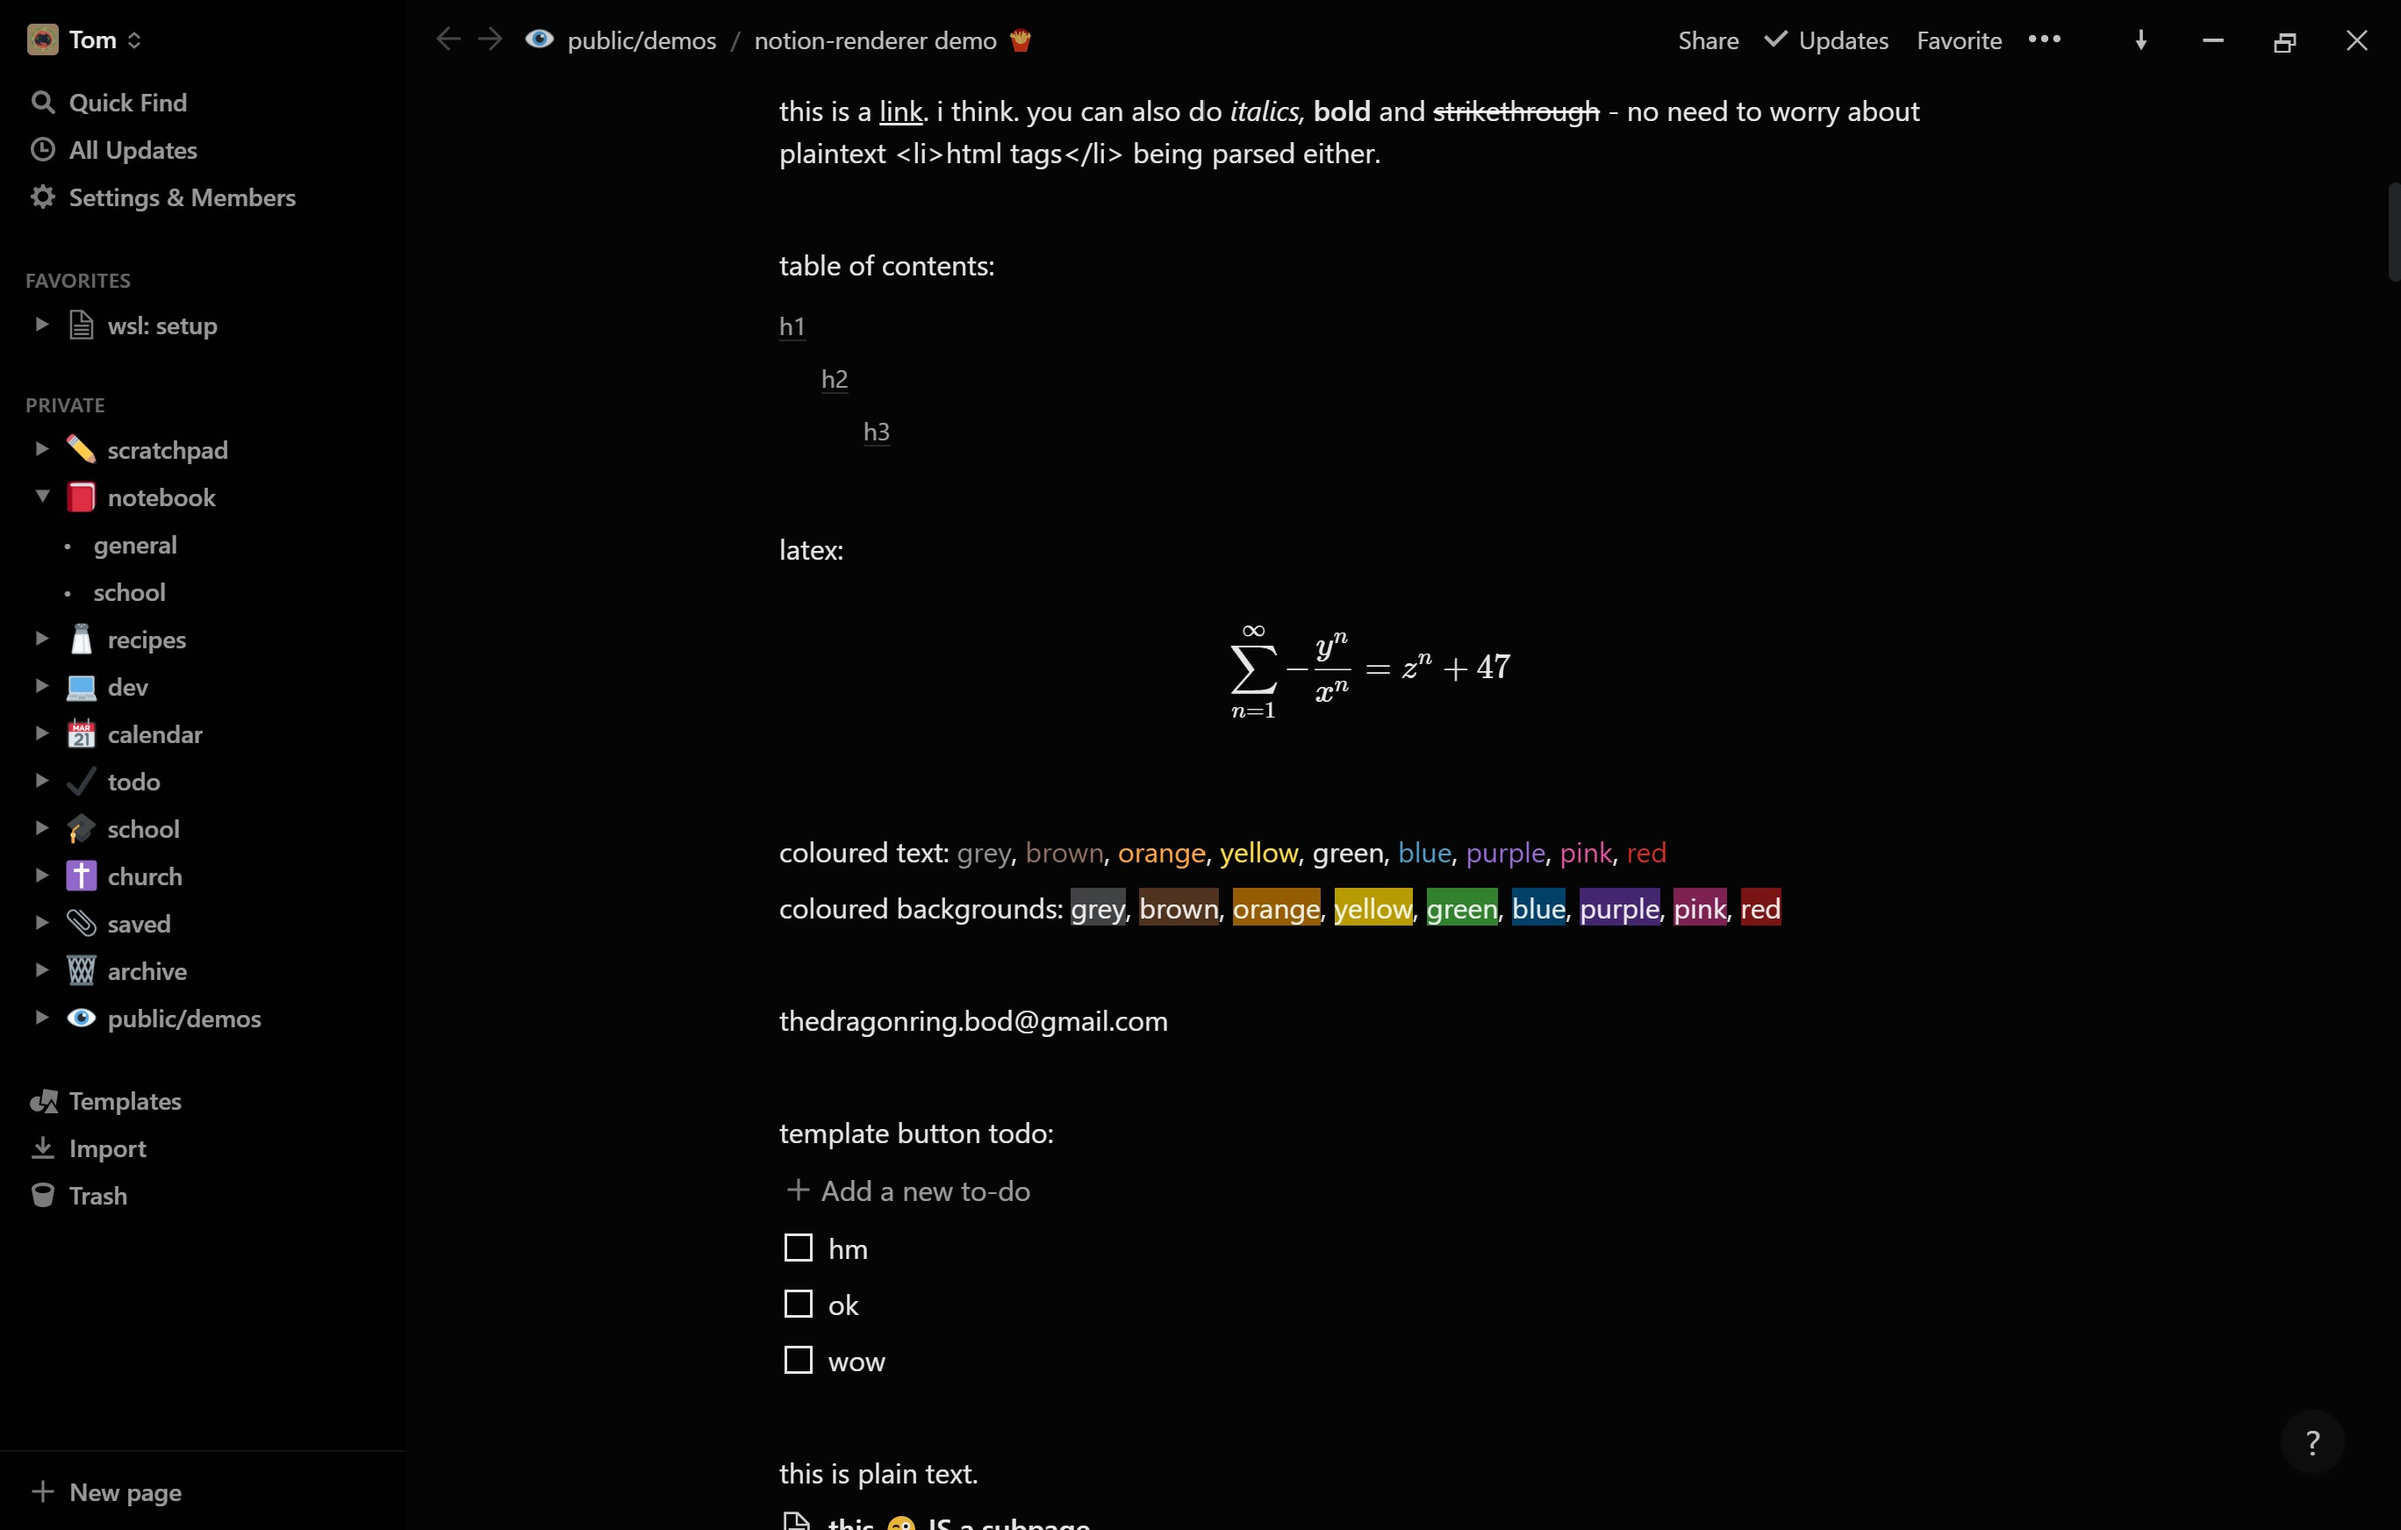
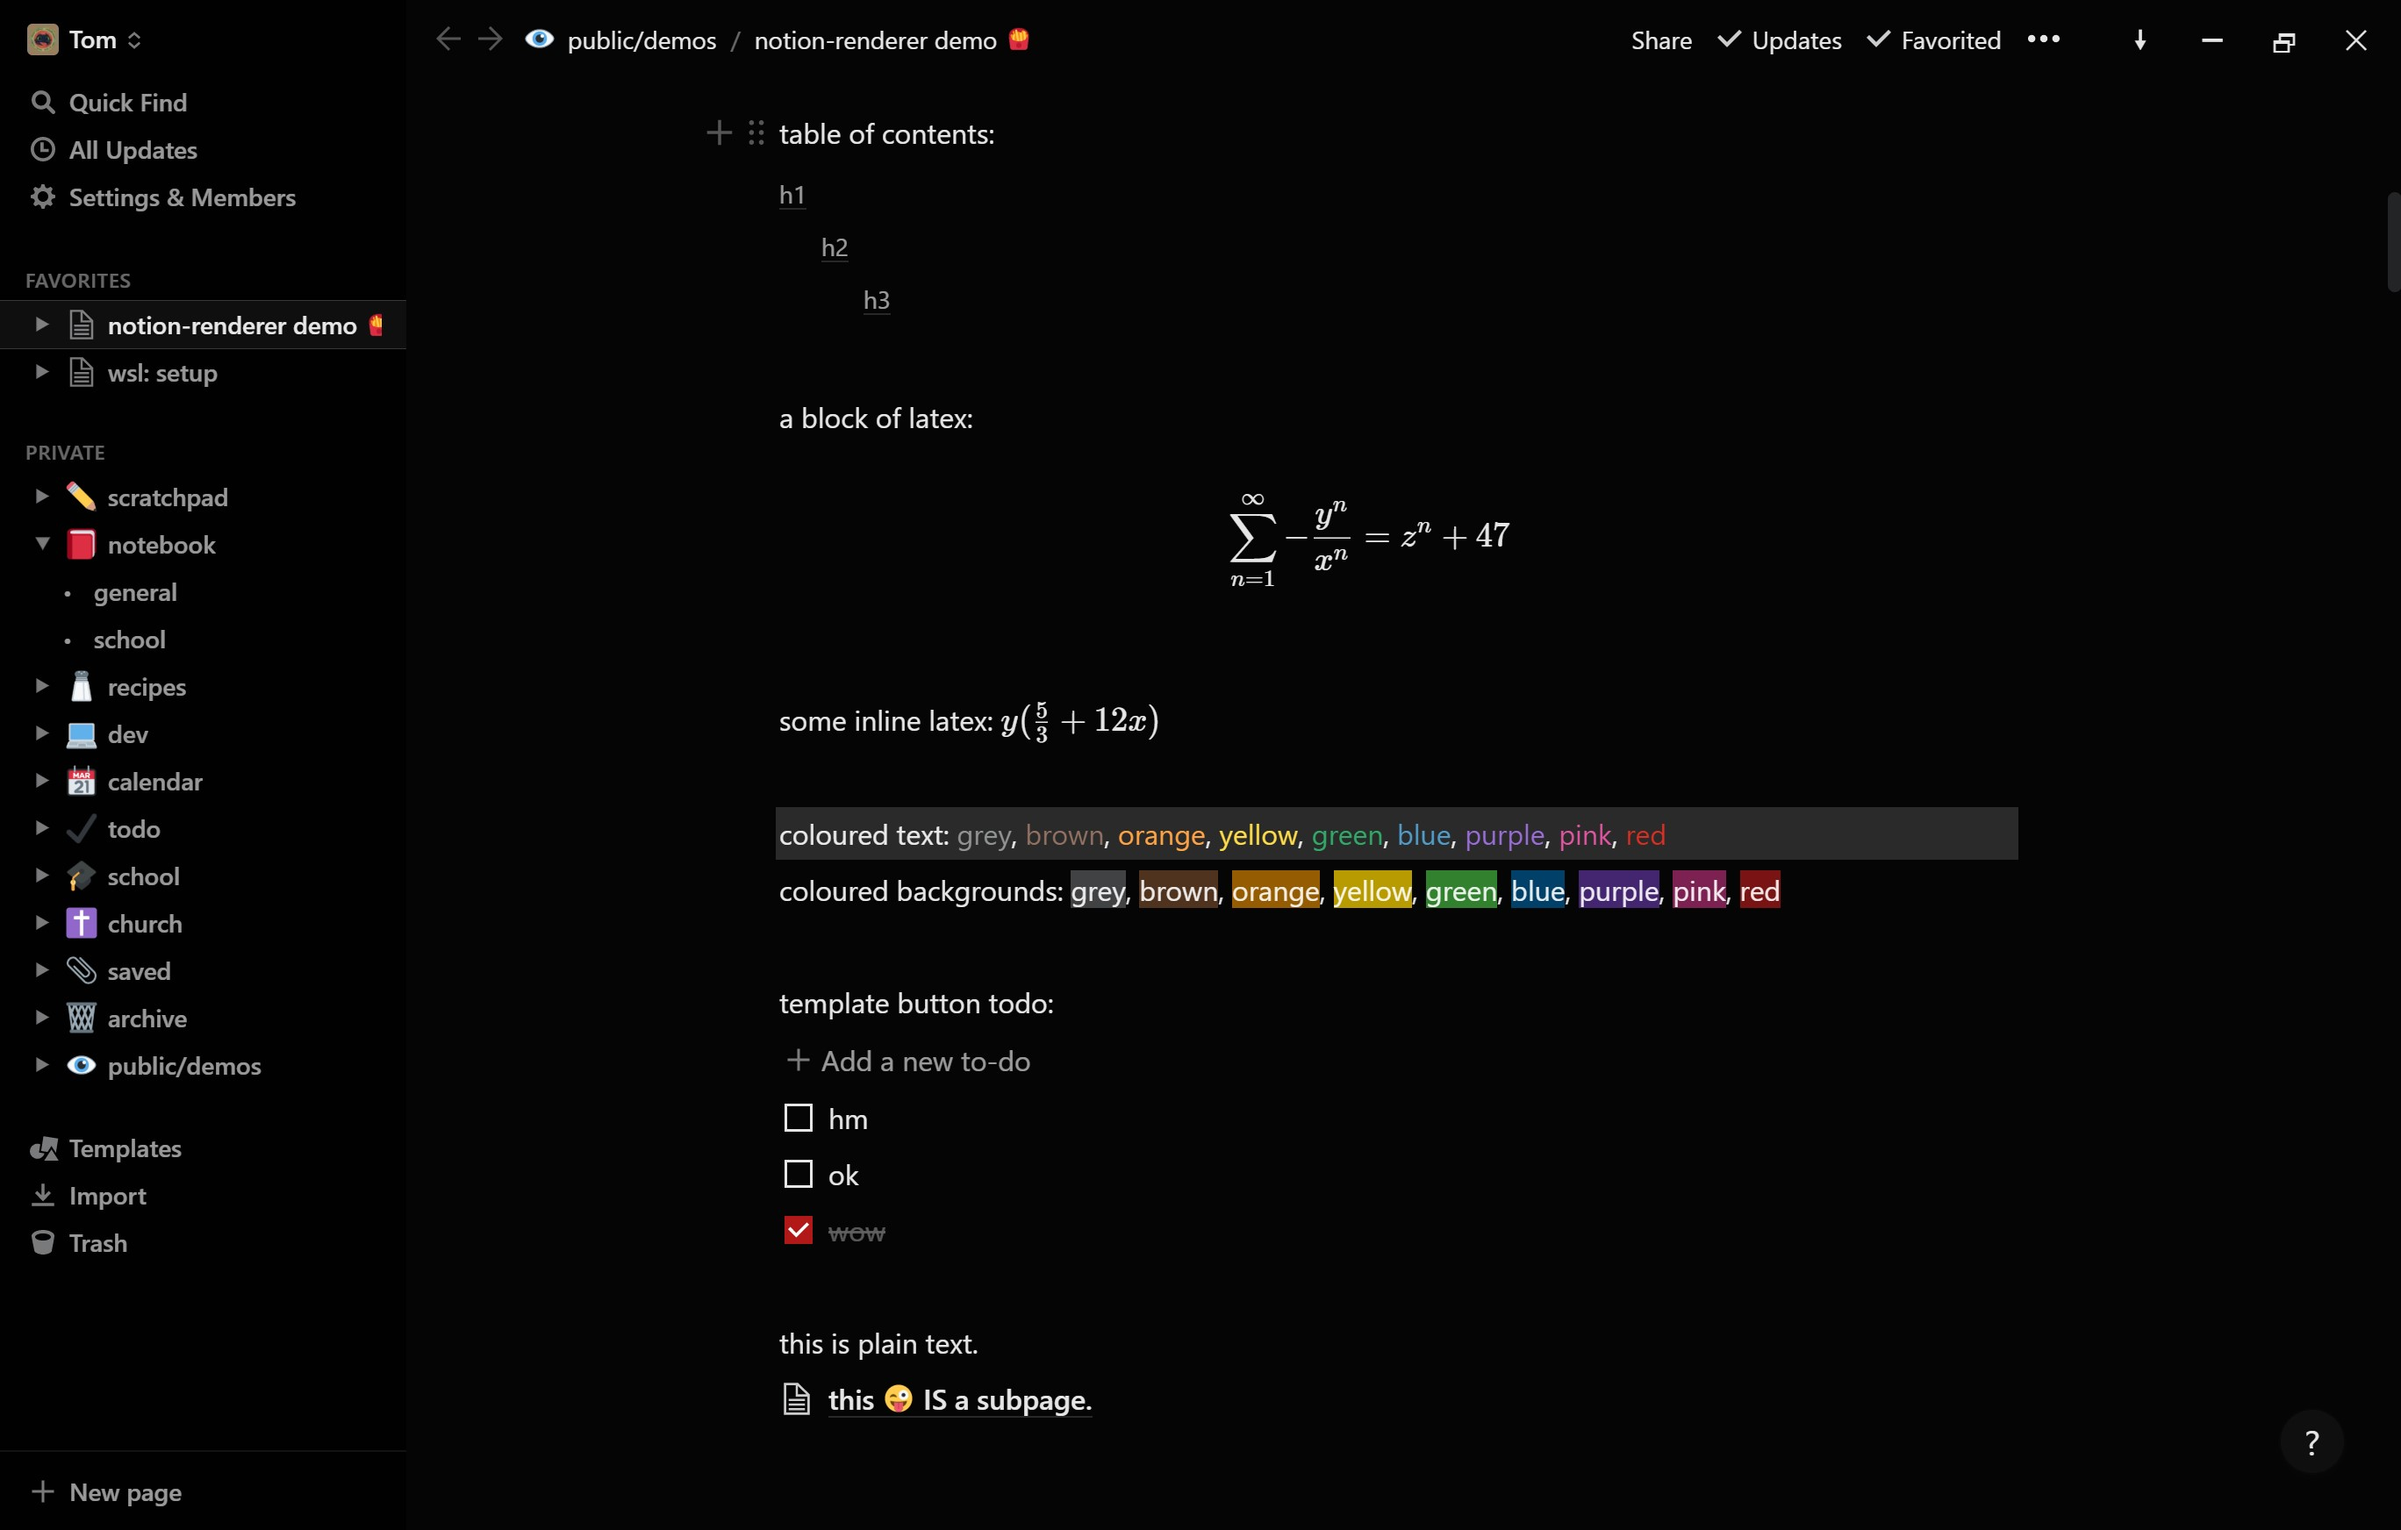
colour theming: line backgrounds

diff --git a/resources/theme.css b/resources/theme.css
@@ -29,7 +29,7 @@
   --theme-text_brown: rgb(147, 114, 100);
   --theme-text_orange: rgb(255, 163, 68);
   --theme-text_yellow: rgb(255, 220, 73);
-  --theme-text_teal: rgb(77, 171, 154);
+  --theme-text_green: rgb(50, 169, 104);
   --theme-text_blue: rgb(82, 156, 202);
   --theme-text_purple: rgb(154, 109, 215);
   --theme-text_pink: rgb(226, 85, 161);
@@ -43,6 +43,15 @@
   --theme-bg_purple: rgba(91, 49, 148, 0.74);
   --theme-bg_pink: rgba(243, 61, 159, 0.5);
   --theme-bg_red: rgb(122, 20, 20);
+  --theme-line_gray: rgba(126, 128, 129, 0.301);
+  --theme-line_brown: #50331fad;
+  --theme-line_orange: rgba(255, 153, 0, 0.315);
+  --theme-line_yellow: rgba(183, 156, 0, 0.445);
+  --theme-line_green: rgba(50, 129, 47, 0.39);
+  --theme-line_blue: rgba(0, 90, 146, 0.521);
+  --theme-line_purple: rgba(90, 49, 148, 0.349);
+  --theme-line_pink: rgba(243, 61, 158, 0.301);
+  --theme-line_red: rgba(122, 20, 20, 0.623);
 }
 
 /** backgrounds **/
@@ -104,66 +113,93 @@
   background: var(--theme-primary_indicator) !important;
 }
 
+[style*='color:rgba(151,154,155,0.95)'] {
+  color: var(--theme-text_gray) !important;
+}
 [style*='background: rgba(151, 154, 155, 0.5)'],
 [style*='background:rgb(69,75,78)'] {
   background: var(--theme-bg_gray) !important;
 }
-[style*='color:rgba(151,154,155,0.95)'] {
-  color: var(--theme-text_gray) !important;
+[style*='background: rgb(69, 75, 78)'] {
+  background: var(--theme-line_gray) !important;
+}
+[style*='color:rgb(147,114,100)'] {
+  color: var(--theme-text_brown) !important;
 }
 [style*='background: rgba(147, 114, 100, 0.5)'],
 [style*='background:rgb(67,64,64)'] {
   background: var(--theme-bg_brown) !important;
 }
-[style*='color:rgb(147,114,100)'] {
-  color: var(--theme-text_brown) !important;
+[style*='background: rgb(67, 64, 64)'] {
+  background: var(--theme-line_brown) !important;
+}
+[style*='color:rgb(255,163,68)'] {
+  color: var(--theme-text_orange) !important;
 }
 [style*='background: rgba(255, 163, 68, 0.5)'],
 [style*='background:rgb(89,74,58)'] {
   background: var(--theme-bg_orange) !important;
 }
-[style*='color:rgb(255,163,68)'] {
-  color: var(--theme-text_orange) !important;
+[style*='background: rgb(89, 74, 58)'] {
+  background: var(--theme-line_orange) !important;
+}
+[style*='color:rgb(255,220,73)'] {
+  color: var(--theme-text_yellow) !important;
 }
 [style*='background: rgba(255, 220, 73, 0.5)'],
 [style*='background:rgb(89,86,59)'] {
   background: var(--theme-bg_yellow) !important;
 }
-[style*='color:rgb(255,220,73)'] {
-  color: var(--theme-text_yellow) !important;
+[style*='background: rgb(89, 86, 59)'] {
+  background: var(--theme-line_yellow) !important;
+}
+[style*='color:rgb(77,171,154)'] {
+  color: var(--theme-text_green) !important;
 }
 [style*='background: rgba(77, 171, 154, 0.5)'],
 [style*='background:rgb(53,76,75)'] {
   background: var(--theme-bg_green) !important;
 }
-[style*='color:rgb(77,171,154)'] {
-  color: var(--theme-text_green) !important;
+[style*='background: rgb(53, 76, 75)'] {
+  background: var(--theme-line_green) !important;
+}
+[style*='color:rgb(82,156,202)'] {
+  color: var(--theme-text_blue) !important;
 }
 [style*='background: rgba(82, 156, 202, 0.5)'],
 [style*='background:rgb(54,73,84)'] {
   background: var(--theme-bg_blue) !important;
 }
-[style*='color:rgb(82,156,202)'] {
-  color: var(--theme-text_blue) !important;
+[style*='background: rgb(54, 73, 84)'] {
+  background: var(--theme-line_blue) !important;
+}
+[style*='color:rgb(154,109,215)'] {
+  color: var(--theme-text_purple) !important;
 }
 [style*='background: rgba(154, 109, 215, 0.5)'],
 [style*='background:rgb(68,63,87)'] {
   background: var(--theme-bg_purple) !important;
 }
-[style*='color:rgb(154,109,215)'] {
-  color: var(--theme-text_purple) !important;
+[style*='background: rgb(68, 63, 87)'] {
+  background: var(--theme-line_purple) !important;
+}
+[style*='color:rgb(226,85,161)'] {
+  color: var(--theme-text_pink) !important;
 }
 [style*='background: rgba(226, 85, 161, 0.5)'],
 [style*='background:rgb(83,59,76)'] {
   background: var(--theme-bg_pink) !important;
 }
-[style*='color:rgb(226,85,161)'] {
-  color: var(--theme-text_pink) !important;
+[style*='background: rgb(83, 59, 76)'] {
+  background: var(--theme-line_pink) !important;
+}
+[style*='color:rgb(255,115,105)'] {
+  color: var(--theme-text_red) !important;
 }
 [style*='background: rgba(255, 115, 105, 0.5);'],
 [style*='background:rgb(89,65,65)'] {
   background: var(--theme-bg_red) !important;
 }
-[style*='color:rgb(255,115,105)'] {
-  color: var(--theme-text_red) !important;
+[style*='background: rgb(89, 65, 65)'] {
+  background: var(--theme-line_red) !important;
 }
